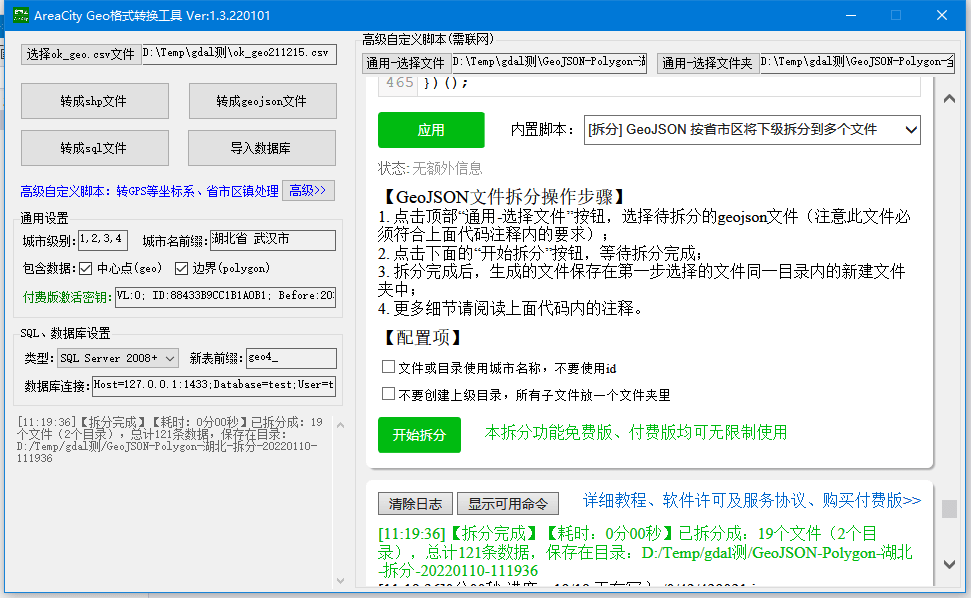
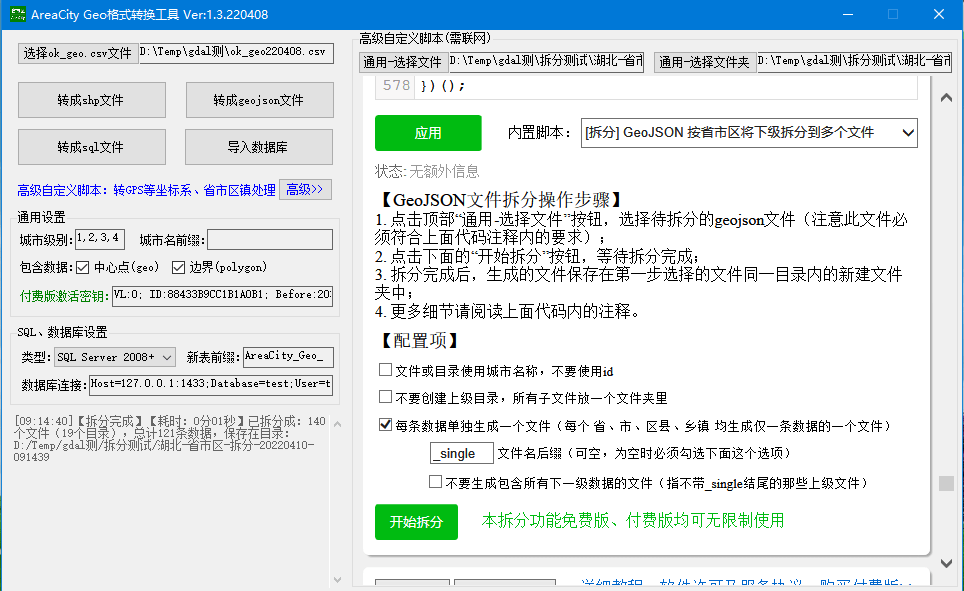
更新文档

Changed region(s): [[0.0, 0.0, 1.0, 1.0], [0.2178, 0.1523, 0.3112, 0.1827], [0.0622, 0.1523, 0.1245, 0.1827]]

diff --git a/assets/AGT/WebviewSettingsCodes/geojson_level_split.js b/assets/AGT/WebviewSettingsCodes/geojson_level_split.js
@@ -6,7 +6,7 @@
 本代码用于将一个大的 geojson 文件，根据pid、ext_path字段自动拆分成单独的小文件，子级数据默认会放在父级id命名的文件夹内。
 
 ``` Ref
-全部数据将会拆分出：一个仅包含所有省份的文件；每个省份各一个文件，内容为此省份所有的市；每个市各一个文件，内容为此市所有的区县；每个区县各一个文件，内容为此区县所有的乡镇。
+全部数据将会拆分出：一个仅包含所有省份的文件；每个省份各一个文件，内容为此省份所有的市；每个市各一个文件，内容为此市所有的区县；每个区县各一个文件，内容为此区县所有的乡镇；[可选]每个省市区单独一个文件，内容为对应的一条边界数据；[可选]每个乡镇单独一个文件，内容为此乡镇一条边界数据。
 
 【拆分规则演示】
 	1. 拆分出  全国  所有的省级到一个文件
@@ -17,7 +17,14 @@
 			得到 4201.json   包含了武汉所有的区县；
 	4. 拆分出 武昌区 所有的乡镇级到一个文件
 			得到 420106.json 包含了武昌所有的乡镇街道；
-	5. 其他的省市区按上面规则拆分得到对应文件。
+	5. [可选]拆分出每个 省市区 到单独一个文件
+			得到 42_single.json   只包含湖北省一个边界
+			得到 4201_single.json 只包含武汉市一个边界
+			得到420106_single.json只包含武昌区一个边界
+	6. [可选]拆分出 黄鹤楼街道 到单独一个文件
+			得到 420106003_single.json 只含黄鹤楼街道
+			一个乡镇边界；
+	7. 其他的省市区县乡镇按上面规则拆分得到对应文件；
 	
 【拆分子目录结构】 
 	- /0.json
@@ -33,8 +40,20 @@
 			某区下所有乡镇：/0/42/目录内每个市均有一个
 			文件夹，里面存放着此市每个区县的json文件，
 			每个json内为此区县的所有乡镇。
+			
+	- /0/42_single.json
+	  /0/42/4201_single.json
+	  /0/42/4201/420106_single.json
+			可选省市区单独一个文件：每个文件内只含对应
+			的省市区一条边界数据。
+	- /0/42/4201/420106/420106003_single.json
+			可选某乡镇单独一个文件：/0/42/4201目录内每
+			个区县均有一个文件夹，里面存放着此区县每个
+			乡镇的json文件，每个json内只含此乡镇。
+	
 	- 当配置项勾选了“不要创建上级目录”时，所有子文件将放一个文件夹里面，不会出现本目录结构。
-	- 上面路径中的 0、42、4201 均为pid，实际为每个省市区的不同id值，当配置项勾选了“文件或目录使用城市名称”时，数将会被城市名称代替。
+	- 当配置勾选了“每条数据单独生成一个文件”时，才会将每个乡镇拆分到单独的一个文件，这些文件内只会有这个乡镇一条数据；省市区也会生成单独的一个默认用_single结尾的文件，只包这个城市一条数据；当同时勾选了“不要生成包含所有下一级数据的文件”时，不会生成不带_single结尾的那些上级文件。
+	- 上面路径中的 0、42、4201、420106 均为pid，实际为每个省市区的不同id值，当配置项勾选了“文件或目录使用城市名称”时，数将会被城市名称代替。
 
 
 【注意】本代码只能拆分固定的换行风格的geojson文件（类似本工具导出的json文件内容风格），因为要简化对文本的处理，本代码要求每条数据文本均独占一行，所以如果一行有多条数据、一条数据占了多行，均不支持处理。
@@ -70,13 +89,32 @@ Runtime.Ctrls([
 		<input type="checkbox" class="childFolderDisable" />不要创建上级目录，所有子文件放一个文件夹里\
 	</label>\
 </div>\
+<div style="padding-top:8px">\
+	<label style="cursor: pointer">\
+		<input type="checkbox" class="splitToSingle" />每条数据单独生成一个文件（每个 省、市、区县、乡镇 均生成仅一条数据的一个文件）\
+	</label>\
+</div>\
+<div class="splitToSingleMore" style="padding-left:50px;display:none">\
+	<div style="padding-top:8px;padding-left:5px">\
+		<input style="width:60px" value="_single" class="singleFileSuffix">\
+		文件名后缀（可空，为空时必须勾选下面这个选项）\
+	</div>\
+	<div style="padding-top:8px">\
+		<label style="cursor: pointer">\
+			<input type="checkbox" class="singleFileOnly" />不要生成包含所有下一级数据的文件（指不带_single结尾的那些上级文件）\
+		</label>\
+	</div>\
+</div>\
 </div>\
 	</div>'}
 	
 	,{name:"开始拆分",click:"runClick"}
 	,{html:'<span style="color:#0b1">本拆分功能免费版、付费版均可无限制使用</span>'}
 ]);
-var childFolderDisable,pathUseName;
+$(".splitToSingle").click(function(){
+	$(".splitToSingleMore")[this.checked?"show":"hide"]();
+});
+var childFolderDisable,pathUseName,splitToSingle,singleFileSuffix,singleFileOnly;
 
 var runStartTime=0;
 var runTimeTips=function(){
@@ -98,10 +136,24 @@ window.runClick=function(){
 	
 	childFolderDisable=$(".childFolderDisable")[0].checked;
 	pathUseName=$(".pathUseName")[0].checked;
+	splitToSingle=$(".splitToSingle")[0].checked;
+	singleFileSuffix=splitToSingle?$(".singleFileSuffix").val():"";
+	singleFileOnly=splitToSingle?$(".singleFileOnly")[0].checked:false;
 	if(childFolderDisable && pathUseName){
 		Runtime.Log("使用名称 和 不创建目录 选项不允许同时选择，否则可能导致同名冲突",1);
 		return;
 	}
+	if(splitToSingle && !singleFileSuffix && !singleFileOnly){
+		Runtime.Log("文件名后缀为空时，必须勾选 不要生成包含所有下一级数据的文件，否则会文件名冲突",1);
+		return;
+	}
+	Runtime.Log("拆分配置："+JSON.stringify({
+		pathUseName:pathUseName
+		,childFolderDisable:childFolderDisable
+		,splitToSingle:splitToSingle
+		,singleFileSuffix:singleFileSuffix
+		,singleFileOnly:singleFileOnly
+	}));
 	
 	//读取用户选择的文件路径
 	var config=JSON.parse(AppCmds.config());
@@ -258,15 +310,21 @@ var analysisFile=function(path,Catch,OK){
 			}catch(e){
 				throw new Error("第"+lineNo+"行数据不能解析成json");
 			}
-			if(item.properties.pid==null || item.properties.ext_path==null){
+			var prop=item.properties;
+			if(prop.pid==null || prop.ext_path==null){
 				throw new Error("第"+lineNo+"行数据中无pid或ext_path属性，不支持拆分此文件");
 			}
-			var pid=item.properties.pid+"";
-			var extPath=item.properties.ext_path.split(" ");
-			var deep=extPath.length-1-1;
-			extPath.pop();
+			var pid=prop.pid+"";
+			var extPath=prop.ext_path.split(" ");//上级完整路径 下面会pop
+			var deep=extPath.length-1-1;//上级的深度 -1:0级 0:省 1:市 2:区
+			var name=extPath.pop();
 			var obj=pids[pid]||{childCount:0,lines:[],deep:deep,names:extPath};
 			pids[pid]=obj;
+			
+			var id=prop.id||prop.unique_id;
+			if(splitToSingle && id==null){
+				throw new Error("第"+lineNo+"行数据中无 id|unique_id 属性，不支持最小化拆分");
+			};
 			
 			//固定的id格式，省去查找上级id麻烦，直接截取
 			if(deep==-1 && pid.length==1){
@@ -288,7 +346,7 @@ var analysisFile=function(path,Catch,OK){
 			}
 			if(obj.deep!=deep)throw new Error("第"+lineNo+"行数据的层级解析错误");
 			
-			obj.lines.push(line);//写入内存，如果是超大文件，内存不够的话处理不了，另外：超大文件循环fileReadLine一遍非常耗时，没有缓存的话，性能非常低
+			obj.lines.push({id:id+"", name:name, txt:line});//写入内存，如果是超大文件，内存不够的话处理不了，另外：超大文件循环fileReadLine一遍非常耗时，没有缓存的话，性能非常低
 			obj.childCount++;
 			count++;
 		};
@@ -303,12 +361,16 @@ var analysisFile=function(path,Catch,OK){
 			return;
 		}
 		
+		var fileCount=0;
+		if(!singleFileOnly) fileCount+=Object.keys(pids).length;
+		if(splitToSingle) fileCount+=count;
+		
 		//分析完成
 		finalCall();
 		updateStatus(true);
 		OK({
 			pids:pids
-			,fileCount:Object.keys(pids).length
+			,fileCount:fileCount
 			,count:count
 			,header:header
 		});
@@ -323,9 +385,10 @@ var saveSpiltFile=function(meta,savePath,Catch,OK){
 	
 	//优化路径，如果都是一个城市下的数据，就忽略掉上级路径
 	var all0=true,all1=true;
-	var p0="",p1="";
+	var p0="",p1="",hasDeep={};
 	for(var pid in meta.pids){
 		var pidObj=meta.pids[pid];
+		hasDeep[pidObj.deep]=1;
 		if(pidObj.ids[0] && (!p0 || p0==pidObj.ids[0])){
 			p0=pidObj.ids[0];
 		}else{
@@ -342,6 +405,8 @@ var saveSpiltFile=function(meta,savePath,Catch,OK){
 			}
 		}
 	}
+	if(hasDeep[0] && hasDeep[1]) all0=false;
+	if(hasDeep[1] && hasDeep[2]) all1=false;
 	if(meta.pids["0"]){
 		all0=false;
 		all1=false;
@@ -397,24 +462,30 @@ var saveSpiltFile=function(meta,savePath,Catch,OK){
 			}
 			break;
 		}
-		if(folder){
-			folders[folder]=1;
-		}
+		//每条数据需单独拆分成一个文件，先生成文件夹
+		var singleFolder=folder;
+		
 		var newFile=folder;
 		if(pathUseName){
 			if(pid=="0"){
 				newFile+="/全国.json";
+				!childFolderDisable&&(singleFolder+="/全国");
 			}else{
 				newFile+="/"+pidObj.names[pidObj.deep]+".json";
+				!childFolderDisable&&(singleFolder+="/"+pidObj.names[pidObj.deep]);
 			}
 		}else{
 			newFile+="/"+pid+".json";
+			!childFolderDisable&&(singleFolder+="/"+pid);
 		}
 		
 		var tips=runTimeTips()+" 进度："+(idx+1)+"/"+pidList.length+" 正在写入 ";
-		Runtime.Log(tips+newFile);
-		AppCmds.showTips(tips+savePath+newFile);
-		fileCount++;
+		var tips2=singleFileOnly?(folder+"/"):newFile;
+		if(splitToSingle){
+			tips2+=(singleFileOnly?" 共":"，和")+pidObj.lines.length+"个单独文件";
+		}
+		Runtime.Log(tips+tips2);
+		AppCmds.showTips(tips+savePath+tips2);
 		
 		
 		/***将数据内容写入新文件***/
@@ -448,31 +519,56 @@ var saveSpiltFile=function(meta,savePath,Catch,OK){
 					//没有数据了
 					break;
 				};
-				var line=pidObj.lines[lineIdx];
+				var lineObj=pidObj.lines[lineIdx];
+				var line=lineObj.txt;
 				
 				
 				//直接写入这行数据
-				AppCmds.fileWrite(write,(writeCount>0?",":"")+"\n"+line);
+				write&&AppCmds.fileWrite(write,(writeCount>0?",":"")+"\n"+line);
 				writeCount++;
 				count++;
+				
+				//将这行数据写入单独一个文件
+				var writeS="";
+				if(splitToSingle){try{
+					fileCount++;
+					singleFolder && (folders[singleFolder]=1);
+					var newFileS=singleFolder;
+					if(pathUseName){
+						newFileS+="/"+lineObj.name+singleFileSuffix+".json";
+					}else{
+						newFileS+="/"+lineObj.id+singleFileSuffix+".json";
+					};
+					writeS=AppCmds.openFileWriteRes("AutoDir:"+savePath+newFileS);
+					AppCmds.fileWrite(writeS, meta.header.join("\n"));
+					AppCmds.fileWrite(writeS, "\n"+line);
+					AppCmds.fileWrite(writeS,"\n]\n}\n");
+				}finally{
+					AppCmds.closeRes(writeS);
+				}};
 			};
 			
-			AppCmds.fileWrite(write,"\n]\n}\n");
+			write&&AppCmds.fileWrite(write,"\n]\n}\n");
 			
 			//这个pid处理完成，开始下一个
 			finalCall();
 			setTimeout(nextPid);
 		};
 		
-		try{
-			//打开文件，写入开头的部分
-			var write=AppCmds.openFileWriteRes("AutoDir:"+savePath+newFile);
-			var writeCount=0;
-			AppCmds.fileWrite(write, meta.header.join("\n"));
-		}catch(e){
-			finalCall();
-			throw e;
-		}
+		var write="";
+		if(!singleFileOnly){
+			fileCount++;
+			if(folder) folders[folder]=1;
+			try{
+				//打开文件，写入开头的部分
+				write=AppCmds.openFileWriteRes("AutoDir:"+savePath+newFile);
+				var writeCount=0;
+				AppCmds.fileWrite(write, meta.header.join("\n"));
+			}catch(e){
+				finalCall();
+				throw e;
+			}
+		};
 		writeNextLine();
 	};
 	nextPid();

diff --git a/assets/AreaCity-Geo-Transform-Tools.html b/assets/AreaCity-Geo-Transform-Tools.html
@@ -556,7 +556,7 @@ select id,ext_path,polygon from 【此处改成你的表名】 where ST_Intersec
 			<div class="h3">GeoJSON 按省市区将下级拆分到多个文件<a name="sy-geojson-split"></a></div>
 			<div class="desc">
 				<p>本拆分功能用于将一个大的 geojson 文件，根据pid、ext_path字段自动拆分成单独的小文件，子级数据默认会放在父级id命名的文件夹内。</p>
-				<p>全部数据将会拆分出：一个仅包含所有省份的文件；每个省份各一个文件，内容为此省份所有的市；每个市各一个文件，内容为此市所有的区县；每个区县各一个文件，内容为此区县所有的乡镇。</p>
+				<p>全部数据将会拆分出：一个仅包含所有省份的文件；每个省份各一个文件，内容为此省份所有的市；每个市各一个文件，内容为此市所有的区县；每个区县各一个文件，内容为此区县所有的乡镇；[可选]每个省市区单独一个文件，内容为对应的一条边界数据；[可选]每个乡镇单独一个文件，内容为此乡镇一条边界数据。</p>
 				
 				<div>
 					<i class="b">步骤一、</i>

diff --git a/assets/AGT/WebviewSettingsCodes/geojson_merge.js b/assets/AGT/WebviewSettingsCodes/geojson_merge.js
@@ -26,8 +26,10 @@ Runtime.Ctrls([
 <div style="font-size:13px;">\
 <div style="padding:8px 0">\
 	GeoJSON文件筛选正则表达式：\
-	<input class="fileNameExp" style="width:160px;color:blue" value="\\.(geo)?json$">\
-	（不区分大小写，只有文件名称匹配的文件会被合并，留空将匹配所有文件）\
+	<input class="fileNameExp" style="width:240px;color:blue" value="\\.(geo)?json$">\
+	（不区分大小写，只有文件名称匹配的文件会被合并，留空将匹配所有文件，\
+	<a onclick="$(\'.fileNameExp\').val(\'^(.(?!_single))+\\\\.(geo)?json$\')"\
+		>排除_single文件</a>）\
 </div>\
 </div>\
 	</div>'}

diff --git a/README.md b/README.md
@@ -32,7 +32,7 @@
 [](?)
 
 
-<p align="center"><a href="https://github.com/xiangyuecn/AreaCity-JsSpider-StatsGov"><img width="100" src="https://gitee.com/xiangyuecn/AreaCity-JsSpider-StatsGov/raw/master/assets/icon.png" alt="AreaCity logo"></a></p>
+<p align="center"><a href="https://github.com/xiangyuecn/AreaCity-JsSpider-StatsGov"><img width="100" src="https://xiangyuecn.gitee.io/areacity-jsspider-statsgov/assets/icon.png" alt="AreaCity logo"></a></p>
 
 <p align="center">
   <a title="Stars" href="https://github.com/xiangyuecn/AreaCity-JsSpider-StatsGov"><img src="https://img.shields.io/github/stars/xiangyuecn/AreaCity-JsSpider-StatsGov?color=15822e&logo=github" alt="Stars"></a>
@@ -63,7 +63,7 @@ git clone --depth 1 https://github.com/xiangyuecn/AreaCity-JsSpider-StatsGov.git
 
 欢迎加QQ群：484560085，纯小写口令：`areacity`
 
-<img src="https://gitee.com/xiangyuecn/AreaCity-JsSpider-StatsGov/raw/master/assets/qq_group_484560085.png" width="220px">
+<img src="https://xiangyuecn.gitee.io/areacity-jsspider-statsgov/assets/qq_group_484560085.png" width="220px">
 
 
 
@@ -157,7 +157,7 @@ polygon|string|行政区域边界，高德地图`GCJ-02`火星坐标系。格式
 
 
 ## 案例效果
-[<img src="https://gitee.com/xiangyuecn/AreaCity-JsSpider-StatsGov/raw/master/assets/use_picker.gif" width="280px">](https://jiebian.life/start/test/app?picker=1) [<img src="https://gitee.com/xiangyuecn/AreaCity-JsSpider-StatsGov/raw/master/assets/use_select.png" width="460px">](https://xiangyuecn.gitee.io/areacity-jsspider-statsgov/)
+[<img src="https://xiangyuecn.gitee.io/areacity-jsspider-statsgov/assets/use_picker.gif" width="280px">](https://jiebian.life/start/test/app?picker=1) [<img src="https://xiangyuecn.gitee.io/areacity-jsspider-statsgov/assets/use_select.png" width="460px">](https://xiangyuecn.gitee.io/areacity-jsspider-statsgov/)
 
 
 
@@ -187,7 +187,7 @@ polygon|string|行政区域边界，高德地图`GCJ-02`火星坐标系。格式
 5. 网页版省市区多级联动js代码生成（含数据）。
 
 ## 效果图
-![](https://gitee.com/xiangyuecn/AreaCity-JsSpider-StatsGov/raw/master/assets/tools.png)
+![](assets/tools.png)
 
 
 
@@ -230,6 +230,10 @@ polygon|string|行政区域边界，高德地图`GCJ-02`火星坐标系。格式
 
 # :open_book:坐标和行政区域边界范围
 
+## 在线测试和预览
+坐标边界范围在线测试预览地址：[ECharts Map四级下钻在线测试和预览+代码生成](https://xiangyuecn.gitee.io/areacity-jsspider-statsgov/assets/geo-echarts.html)
+
+
 ## 数据源
 使用高德接口采集的，本来想采百度地图的，但经过使用发现百度地图数据~~有严重问题(百度已更新，不能复现了)~~：
 
@@ -238,10 +242,6 @@ polygon|string|行政区域边界，高德地图`GCJ-02`火星坐标系。格式
 并且高德对镂空性质(Hole)的地块处理比百度强，参考`池州市`对`铜陵市`的飞地处理，高德数据只需要`Union`操作就能生成`polygon`，百度如果不计算位置关系，是完全不知道应该进行`Union`操作还是`Difference`操作，极其复杂数据还无效。
 
 所以放弃使用百度地图数据。
-
-
-## 在线测试和预览
-坐标边界范围在线测试预览地址：[ECharts Map四级下钻在线测试和预览+代码生成](https://xiangyuecn.gitee.io/areacity-jsspider-statsgov/assets/geo-echarts.html)
 
 
 
@@ -266,10 +266,10 @@ polygon|string|行政区域边界，高德地图`GCJ-02`火星坐标系。格式
 
 ## 省市区三级边界效果
 
-![](https://gitee.com/xiangyuecn/AreaCity-JsSpider-StatsGov/raw/master/assets/geo-sheng.gif) ![](https://gitee.com/xiangyuecn/AreaCity-JsSpider-StatsGov/raw/master/assets/geo-guangdong.gif)
+![](assets/geo-sheng.gif) ![](assets/geo-guangdong.gif)
 
 ## 乡镇第4级边界效果
-![](https://gitee.com/xiangyuecn/AreaCity-JsSpider-StatsGov/raw/master/assets/geo-level4/preview-free.png) ![](https://gitee.com/xiangyuecn/AreaCity-JsSpider-StatsGov/raw/master/assets/geo-level4/z01.png)
+![](assets/geo-level4/preview-free.png) ![](assets/geo-level4/z01.png)
 
 
 
@@ -286,9 +286,9 @@ polygon|string|行政区域边界，高德地图`GCJ-02`火星坐标系。格式
 
 **相关截图：**
 
-![](https://gitee.com/xiangyuecn/AreaCity-JsSpider-StatsGov/raw/master/assets/AGT-Images/sy-4.png)
+![](assets/AGT-Images/sy-4.png)
 
-![](https://gitee.com/xiangyuecn/AreaCity-JsSpider-StatsGov/raw/master/assets/AGT-Images/sy-2.png)
+![](assets/AGT-Images/sy-2.png)
 
 
 
@@ -399,4 +399,4 @@ polygon|string|行政区域边界，高德地图`GCJ-02`火星坐标系。格式
 
 您也可以使用支付宝或微信打赏作者：
 
-![](https://gitee.com/xiangyuecn/Recorder/raw/master/assets/donate-alipay.png)  ![](https://gitee.com/xiangyuecn/Recorder/raw/master/assets/donate-weixin.png)
+![](https://xiangyuecn.gitee.io/recorder/assets/donate-alipay.png)  ![](https://xiangyuecn.gitee.io/recorder/assets/donate-weixin.png)
